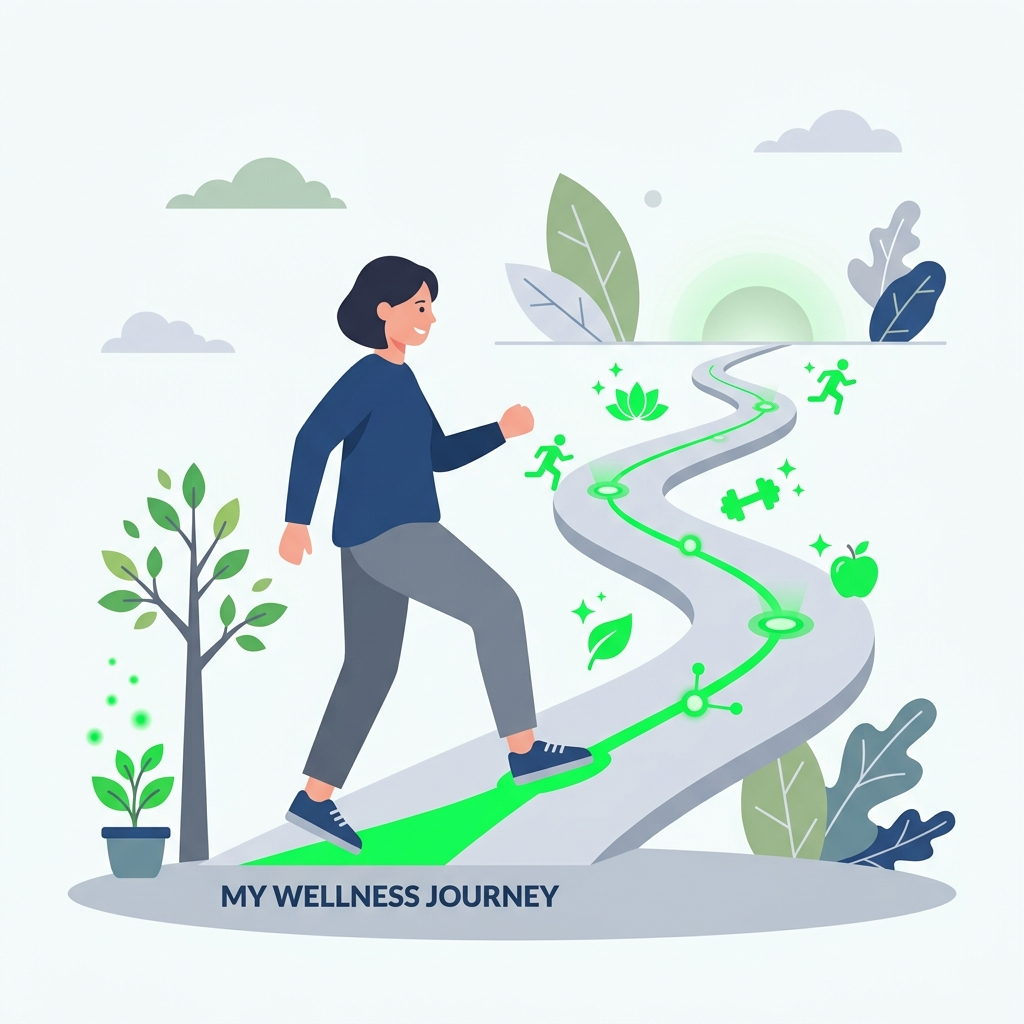
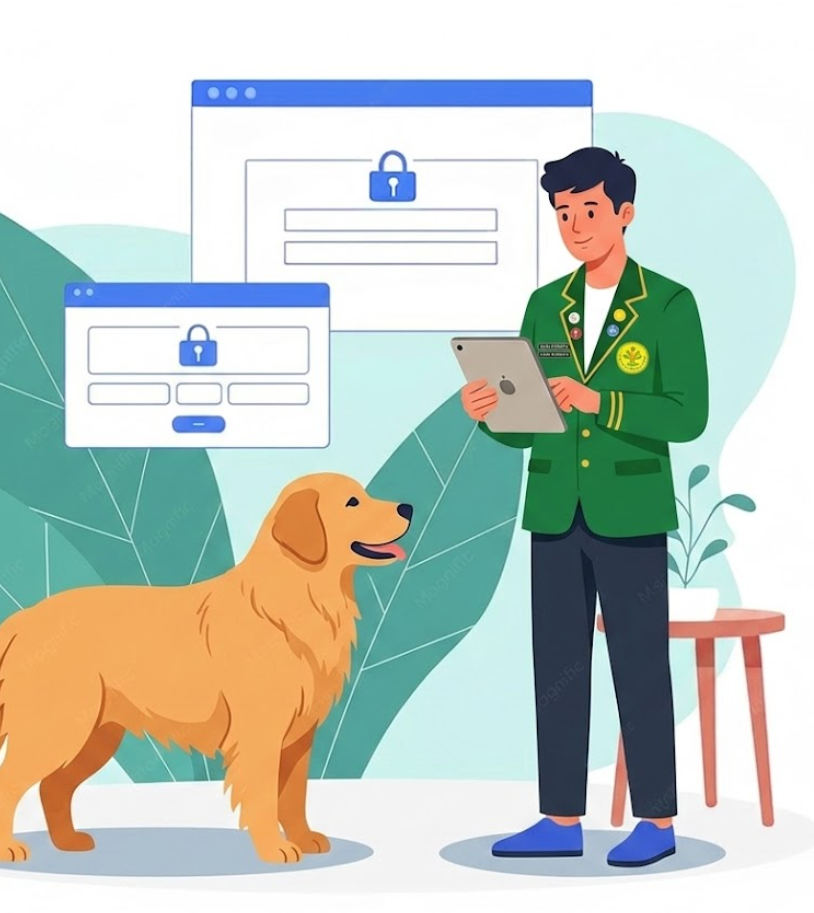
feat: replace login and register popup images with new illustrations

diff --git a/src/pages/LandingPage.jsx b/src/pages/LandingPage.jsx
@@ -3,8 +3,8 @@ import { Link, useNavigate, useSearchParams } from 'react-router-dom';
 import { useAuth } from '../hooks/useAuth';
 import Navbar from '../components/Navbar';
 import WorkWellLogo from '../components/WorkWellLogo';
-import loginImg from '../assets/login.jpg';
-import registerImg from '../assets/register.jpg';
+import loginImg from '../assets/login_illustration.png';
+import registerImg from '../assets/register_illustration.png';
 import heroWorkspaceBg from '../assets/hero_workspace_bg.png';
 import screenTimeIcon from '../assets/screen_time.png';
 import waterIntakeIcon from '../assets/water_intake.png';